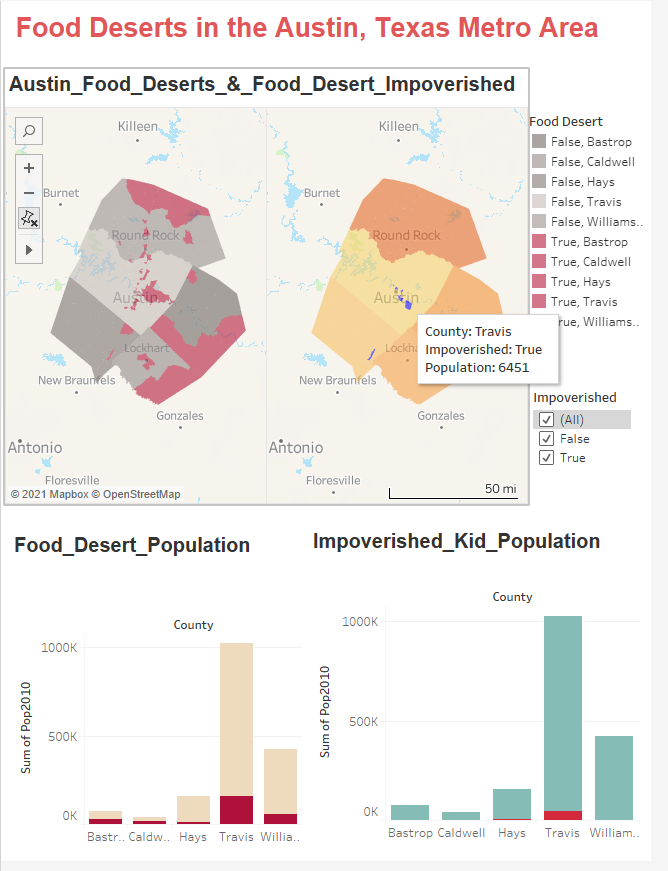
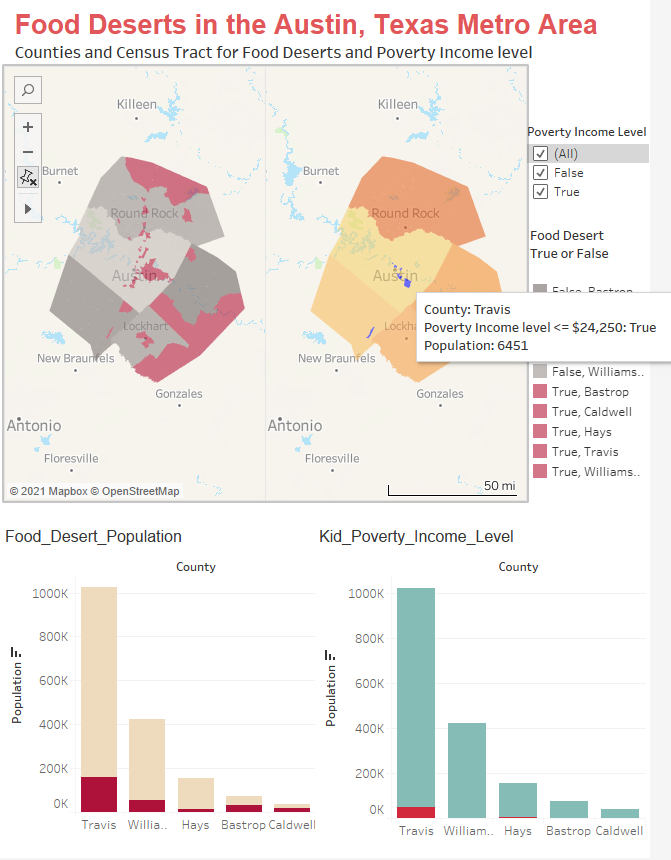
images for storyboard/interactive features added, readme additions for dashboard seg III added

diff --git a/README.md b/README.md
@@ -322,13 +322,21 @@ Segment III:
 - Hover functions for maps & charts
   - County name
   - Food desert: True or False
-  - Impoverished
+  - Poverty Income level <= $24,250 
   - No vehicle
   - Population count
 
-Example of Dashboard:
+Preprocess data for Tableau image:
+
+  ![tab_preprocess](images/preprocess_data_tableau_.png)
+
+Example of Dashboard 1:
 
   ![dash_board](images/Food_Desert_Dash.png)
+
+Example of Dashboard 2:
+
+  ![hover_func1](images/CA_IL_NY_dash.png)
 
 Example of hover functions shown below:
 
